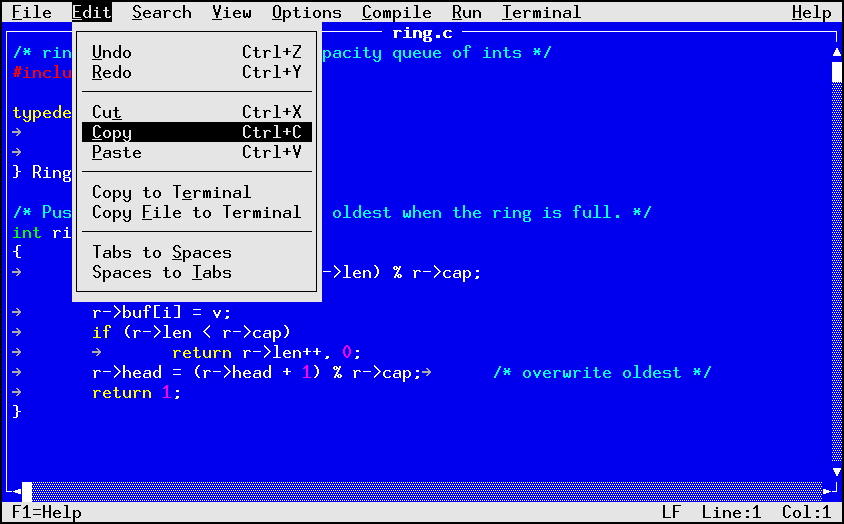
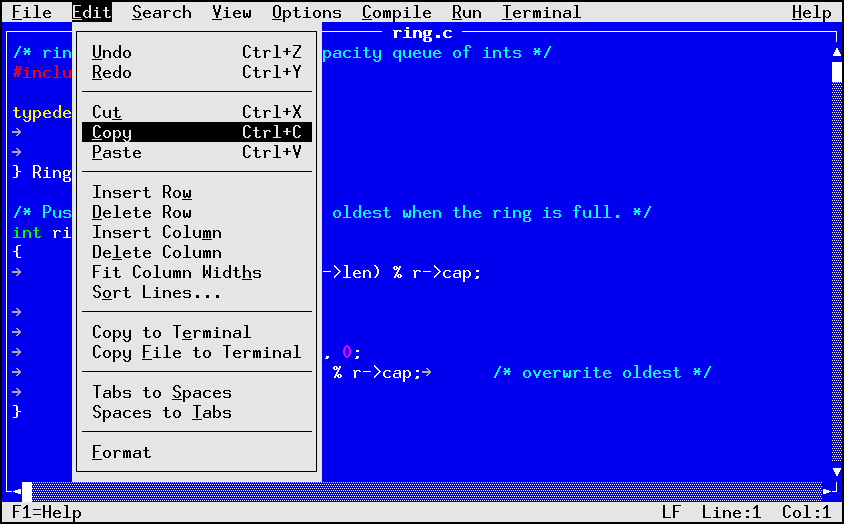
Screenshots: pane, table, art; truecolor; LF art
New shots of the pane, the table view and the art view, with their
sample files in docs/screenshots.sh, and the README places them in
the matching sections and refreshes the summary paragraph.

The terminal shot's truecolor bar came out as 16 colours because
xterm resets TERM to "xterm" and strips COLORTERM from the child;
the script now exports VEDIT_COLORS=256 and runs xterm with the
256-colour terminal name.

The art shot exposed an import bug: a bare LF was fed to the
emulator as a line feed only, so a .ans file with LF endings, which
is what the export writes, reimported with every row shifted. The
import now feeds CR LF for a bare LF; the round-trip test covers it.

Changed region(s): [[0.0616, 0.3359, 0.4005, 0.9466]]

diff --git a/vedit.c b/vedit.c
@@ -25887,15 +25887,25 @@ art_new(int rows, int cols)
 	return a;
 }
 
-/* Replay file bytes into the grid. */
+/* Replay file bytes into the grid. A bare LF counts as a newline, as it
+ * does in any text file (and in what the export writes), where the emulator
+ * alone would only move down: it is fed as CR LF. */
 static int
 art_import(Art *a, const char *bytes, size_t n)
 {
 	struct vt_parse *p = vt_parse_new(vt_ops_default(), a->vt);
+	size_t i, run = 0;
 
 	if (!p)
 		return -1;
-	vt_parse_feed(p, bytes, n);
+	for (i = 0; i < n; i++) {
+		if (bytes[i] != '\n' || (i > 0 && bytes[i - 1] == '\r'))
+			continue;
+		vt_parse_feed(p, bytes + run, i - run);
+		vt_parse_feed(p, "\r\n", 2);
+		run = i + 1;
+	}
+	vt_parse_feed(p, bytes + run, n - run);
 	vt_parse_free(p);
 	return 0;
 }

diff --git a/tests/test_term.c b/tests/test_term.c
@@ -1373,6 +1373,18 @@ t_art_roundtrip(Test *t)
 	TAP_CHECK(t, c->codepoint == ' ' && c->bg.type == COLOR_INDEXED &&
 	    c->bg.index == 4);
 
+	/* a bare LF starts the next row at column 0, as CR LF does */
+	{
+		Art *lf = art_new(4, 8);
+
+		TAP_ASSERT(t, lf != NULL);
+		TAP_CHECK(t, art_import(lf, "ab\ncd\r\nef\n", 11) == 0);
+		TAP_CHECK(t, art_cell(lf, 1, 0)->codepoint == 'c' &&
+		    art_cell(lf, 2, 0)->codepoint == 'e' &&
+		    art_cell(lf, 1, 2)->codepoint == ' ');
+		art_free(lf);
+	}
+
 	/* the frame shows the cells with their colours */
 	ed_render(&v->e, v->e.d);
 	sb = v->e.d->t;

diff --git a/README.md b/README.md
@@ -999,7 +999,9 @@ from the text and from a terminal in the pane. Open a shell there with `Ctrl-W s
 Split Terminal, or the vi command `:split`; `:split cmd` runs `cmd` in the pane
 instead, as `:terminal cmd` would (`tail -f build.log`, say). A new pane leaves
 the focus in the file, so the keys you type next still edit it; `Ctrl-W w` (or
-`Ctrl-W s` again) moves into the shell. The build commands
+`Ctrl-W s` again) moves into the shell.
+
+![A build log in the pane under the file being edited](docs/shot-pane.png) The build commands
 put their output there by default. `Ctrl-W b`, Terminal > Buffer in Pane, or
 `:sbuffer [N]` shows the current text buffer (or buffer N) in the pane, with the
 buffer last on top, else the previous one, above it.
@@ -1084,7 +1086,11 @@ background and attributes, so coloured art renders the way a terminal would
 show it. Saving writes the grid back as UTF-8 with the SGR colour sequences
 that reproduce it, one line per row, so `cat file.ans` still shows the picture.
 The art view needs the terminal emulator (it is not in a `VEDIT_NO_TERM` build)
-and the status line shows `-- ART --` while it is active.
+and the status line shows `-- ART --` while it is active. A file that ends its
+lines with a bare LF, as the editor's own files do, replays the same as one with
+CR LF.
+
+![Coloured text art in the art view, with the pen's colours on the status line](docs/shot-art.png)
 
 The editing model is draw mode's, applied to cells:
 
@@ -1134,6 +1140,8 @@ delimiter, doubled quotes and newlines; a record whose quoted field spans
 several lines of the file is joined into one buffer line on open (the newline
 is just a byte in the line) and saved back as it was. A UTF-8 byte order mark
 at the start of the file is kept and is not part of cell A1.
+
+![A CSV file in the table view, columns fitted to their cells](docs/shot-table.png)
 
 The delimiter comes from the extension (`.tsv` and `.tab` are tab files, which
 never quote) or, for `.csv`, from sniffing the first lines for the most
@@ -1314,10 +1322,12 @@ entirely.
 vedit has a text buffer with undo and redo, the modeless and vi personalities,
 the MS-EDIT chrome (menu bar, frame, scrollbars, dialogs), regex find and
 replace, selection and an internal clipboard, goto-line, multiple buffers, a hex
-view, a 2D/block draw mode, an art view for coloured .ans files, a table view
-for CSV and TSV, per-language build commands with a quickfix error list,
-selectable line endings (LF, CRLF, NUL), tab display with auto-indent and
-tab/space conversion, a symbol picker that merges a buffer scan with a ctags
+view, a 2D/block draw mode with glyph and colour palettes, an art view for
+coloured .ans files, a table view for CSV and TSV with sorting, per-language
+build commands with a quickfix error list, a pane under the text for a shell,
+a build or a second buffer, selectable line endings (LF, CRLF, NUL), tab
+display with a per-buffer ruler of tab stops, auto-indent and tab/space
+conversion, a symbol picker that merges a buffer scan with a ctags
 tags file, terminal buffers running a shell or a build through a built-in VT
 emulator, and lightweight syntax highlighting. It draws through a
 self-contained ANSI renderer over the io vtable, and decodes the keyboard with
